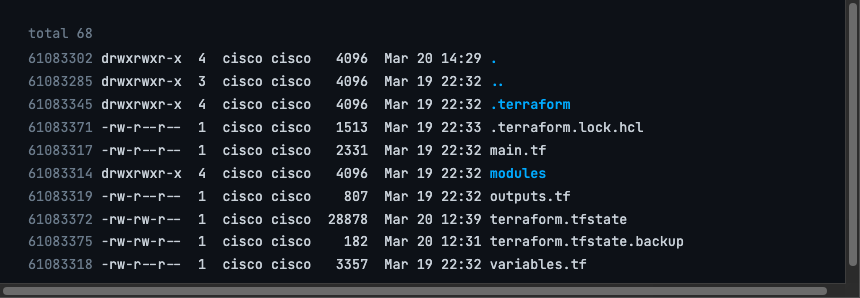
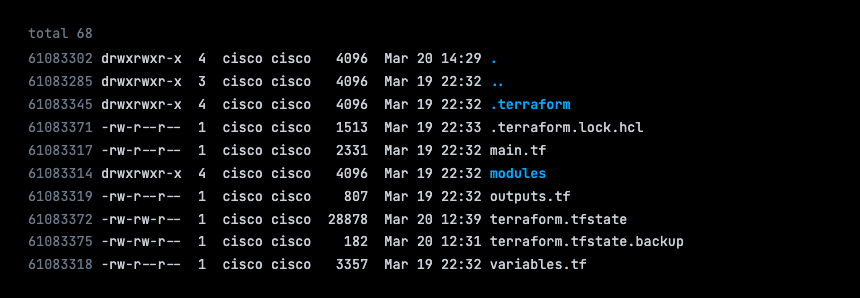
Fix task5-ls-output background to pure black #000000, hide overflow to remove scrollbar artifact

Changed region(s): [[0.0, 0.0, 1.0, 1.0]]

diff --git a/images/task5-ls-output.html b/images/task5-ls-output.html
@@ -8,16 +8,17 @@
   @import url('https://fonts.googleapis.com/css2?family=JetBrains+Mono:wght@400;600&display=swap');
 
   * { box-sizing: border-box; margin: 0; padding: 0; }
+  html, body { overflow: hidden; }
 
   body {
-    background: #0d1117;
+    background: #000000;
     margin: 0;
     padding: 0;
     font-family: 'JetBrains Mono', 'Courier New', monospace;
   }
 
   .terminal {
-    background: #0d1117;
+    background: #000000;
     width: 860px;
     padding: 22px 28px 22px 28px;
     font-size: 13.5px;
